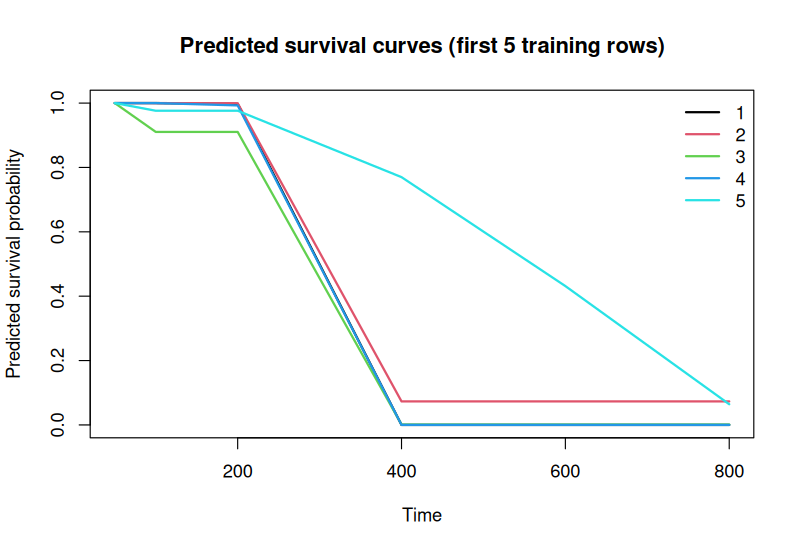
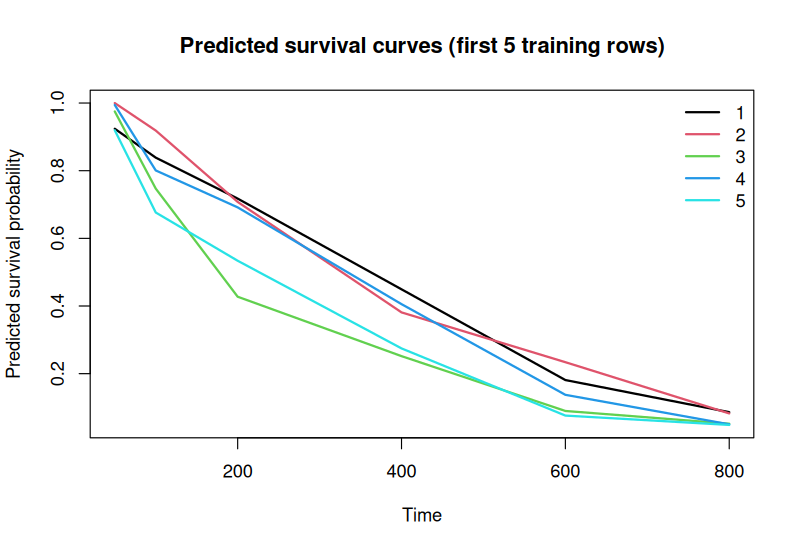
Fix plot.nbsurv() double-scaling continuous predictors (0.3.1)
nbsurv() only ever stored the scaled training data on the fit object.
plot.nbsurv() passed that already-scaled data into predict(), whose
prepare_newdata() step scales its input again using the same stored
means/sds - every plotted survival curve was computed from
twice-standardized covariates. Visually this showed up as "chunky"
curves with implausible flat segments and near-zero collapses for
some rows past t=400 in the README example, not real model behavior.

Fixed by storing the raw (unscaled) training data separately
(fit$training_data_raw) and having plot.nbsurv() use that instead.
predict()/evaluate_nbsurv()/cv_nbsurv()/tune_nbsurv()/varimp_nbsurv()
were never affected - they operate on user-supplied newdata, which is
only ever scaled once. New regression test locks plot.nbsurv()'s
curves to match predict() called directly on the same raw rows.

Regenerated README-survival-curves.png with the fix; the other three
README figures (varimp/cv/tune) don't go through plot.nbsurv() and
were unaffected.

diff --git a/NEWS.md b/NEWS.md
@@ -1,3 +1,23 @@
+# nbsurv 0.3.1
+
+## Bug fixes
+
+* **`plot.nbsurv()` silently double-scaled continuous predictors before
+  plotting, distorting every survival curve it drew.** `nbsurv()` only ever
+  stored the *scaled* training data on the fit object; `plot.nbsurv()`
+  passed that already-scaled data into `predict()`, whose `prepare_newdata()`
+  step scales its input again using the same stored means/sds. The result
+  was visually "chunky" curves with implausible flat segments and near-zero
+  collapses for some rows, especially past t=400 in the README example -
+  not real model behavior, an artifact of predicting from
+  twice-standardized covariates. Fixed by storing the raw (unscaled)
+  training data separately (`fit$training_data_raw`) and having
+  `plot.nbsurv()` use that instead. `predict()`/`evaluate_nbsurv()`/
+  `cv_nbsurv()`/`tune_nbsurv()`/`varimp_nbsurv()` were never affected - they
+  operate on user-supplied `newdata`, which is only ever scaled once. New
+  regression test locks `plot.nbsurv()`'s curves to match `predict()`
+  called directly on the same raw rows.
+
 # nbsurv 0.3.0
 
 ## New features

diff --git a/cran-comments.md b/cran-comments.md
@@ -1,4 +1,4 @@
-# CRAN submission comments — nbsurv 0.3.0
+# CRAN submission comments — nbsurv 0.3.1
 
 ## Test environments
 
